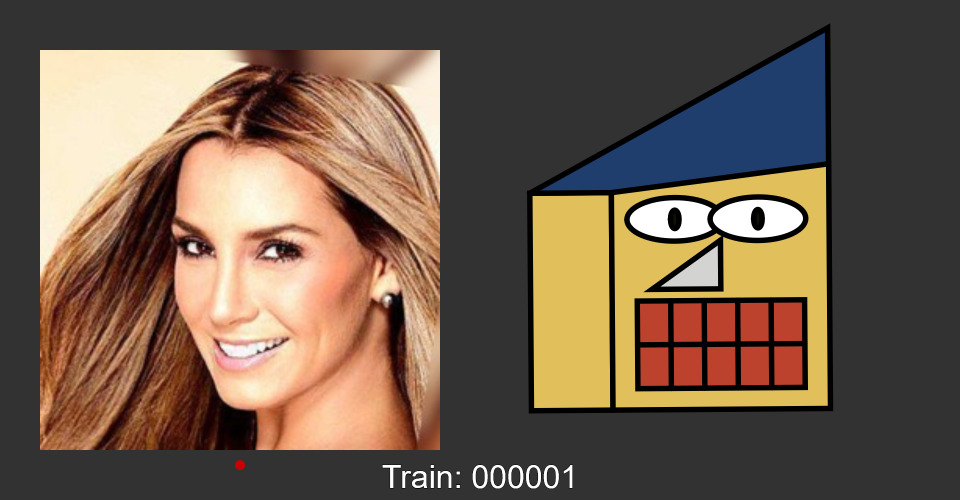
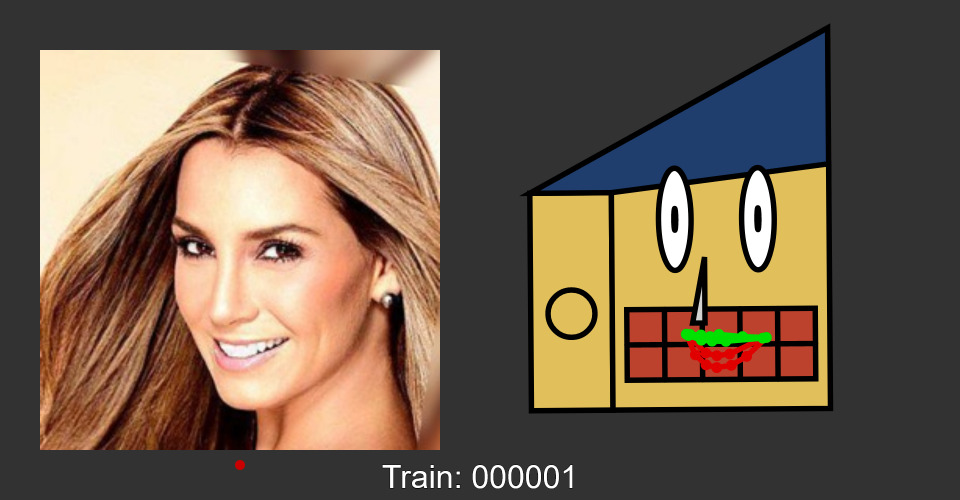
Mapped nose to facial data

Changed region(s): [[0.5625, 0.33, 0.875, 0.81]]

diff --git a/myFace.js b/myFace.js
@@ -271,22 +271,28 @@ class myFace{
     fill(this.noseCol);
     //make gap between mouth and nose if nose and mouth are too close
     let noseHeightReduction=0;
-    if(this.noseY+this.noseHeight/2+minMouthNoseGap>=this.mouthY-this.mouthHeight/2){
-      noseHeightReduction=minMouthNoseGap;
-    }
+    // if(this.noseY+this.noseHeight/2+minMouthNoseGap>=this.mouthY-this.mouthHeight/2){
+    //   noseHeightReduction=minMouthNoseGap;
+    // }
     
-    //this.noseHeight=this.positions[27][1];
+    this.noseX=this.positions.nose_bridge[0][0];
     //draw left facing:
     if(this.noseDirection=="left"){
-      triangle(this.noseX,this.noseY-this.noseHeight/2,this.noseX,this.noseY+this.noseHeight/2-noseHeightReduction,this.noseX-this.noseWidth,this.noseY+this.noseHeight/2-noseHeightReduction);
+      
+      triangle(this.noseX,this.positions.nose_bridge[0][1],this.noseX,this.positions.nose_tip[2][1],this.positions.nose_tip[0][0],this.positions.nose_tip[2][1]);
+
+      //triangle(this.noseX,this.noseY-this.noseHeight/2,this.noseX,this.noseY+this.noseHeight/2-noseHeightReduction,this.noseX-this.noseWidth,this.noseY+this.noseHeight/2-noseHeightReduction);
+      // triangle(this.positions.nose_bridge[0][0],this.positions.nose_bridge[0][1],this.positions.nose_bridge[0][0],this.positions.nose_tip[2][1],this.noseX-this.noseWidth,this.noseY+this.noseHeight/2-noseHeightReduction);
     }
     //draw right facing:
     else if(this.noseDirection=="right"){
-      triangle(this.noseX,this.noseY-this.noseHeight/2,this.noseX,this.noseY+this.noseHeight/2-noseHeightReduction,this.noseX+this.noseWidth,this.noseY+this.noseHeight/2-noseHeightReduction);
+      //triangle(this.noseX,this.noseY-this.noseHeight/2,this.noseX,this.noseY+this.noseHeight/2-noseHeightReduction,this.noseX+this.noseWidth,this.noseY+this.noseHeight/2-noseHeightReduction);
+      triangle(this.noseX,this.positions.nose_bridge[0][1],this.noseX,this.positions.nose_tip[2][1],this.positions.nose_tip[4][0],this.positions.nose_tip[2][1]);
     }
     //draw symetrical nose
     else{
-      triangle(this.noseX,this.noseY-this.noseHeight/2,this.noseX+this.noseWidth,this.noseY+this.noseHeight/2-noseHeightReduction,this.noseX-this.noseWidth,this.noseY+this.noseHeight/2-noseHeightReduction);
+      // triangle(this.noseX,this.noseY-this.noseHeight/2,this.noseX+this.noseWidth,this.noseY+this.noseHeight/2-noseHeightReduction,this.noseX-this.noseWidth,this.noseY+this.noseHeight/2-noseHeightReduction);
+      triangle(this.noseX,this.positions.nose_bridge[0][1],this.positions.nose_tip[4][0],this.positions.nose_tip[2][1],this.positions.nose_tip[0][0],this.positions.nose_tip[2][1]);
     }
    
   }

diff --git a/face.js b/face.js
@@ -45,9 +45,14 @@ function Face() {
    // console.log(positions);
     this.face.drawFace(positions);
    
-    // stroke(225,255,255);
-    // this.draw_segment(positions.top_lip);
-    // //this.draw_segment(positions.bottom_lip);
+  stroke(225,255,255);
+  //  this.draw_segment(positions.nose_bridge);
+    stroke(225,0,0);
+  //  this.draw_segment(positions.nose_tip);
+    this.draw_segment(positions.bottom_lip);
+    stroke(0,225,0);
+    //  this.draw_segment(positions.nose_tip);
+      this.draw_segment(positions.top_lip);
     pop();
    }
   

diff --git a/README.md b/README.md
@@ -1,1 +1,3 @@
-Added preview of face
+Mapped eye and mouth locations to the faciaial data. I just need to work on the scale. The maths of which point to use is doing my head in. 
+
+I have also made it so the nose is the right size and location although it is a little small so the width may have to be exadurated a bit. 
